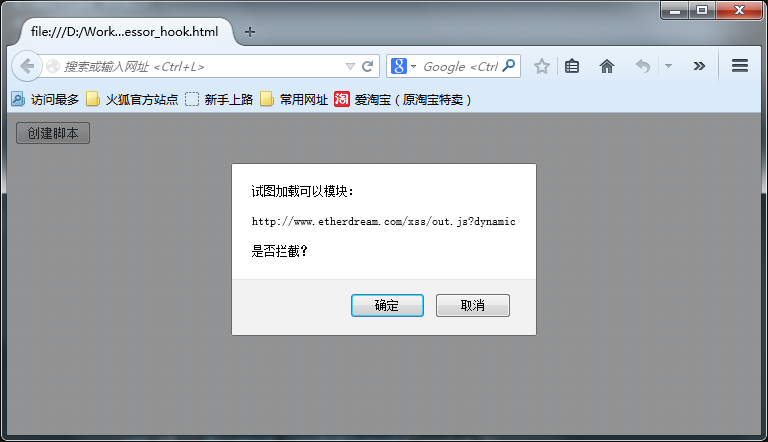
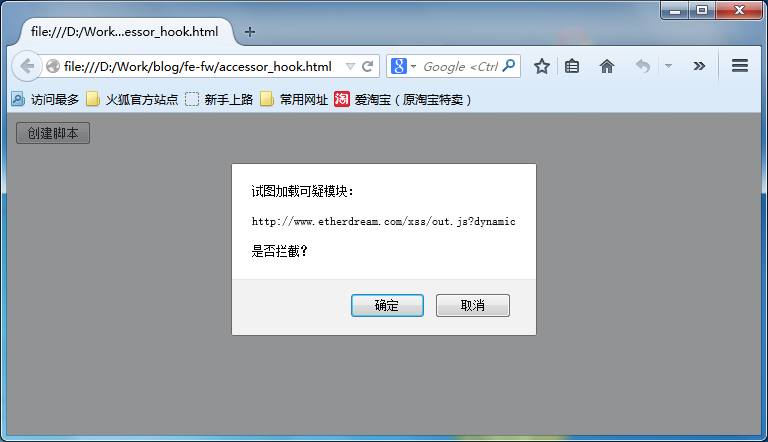
写错字了

diff --git a/_posts/2014-06-10-xss-frontend-firewall-2.md b/_posts/2014-06-10-xss-frontend-firewall-2.md
@@ -239,7 +239,7 @@ document.body.appendChild(el);
 
 	HTMLScriptElement.prototype.__defineSetter__('src', function(url) {
 		if (/xss/.test(url)) {
-			if (confirm('试图加载可以模块：\n\n' + url + '\n\n是否拦截？')) {
+			if (confirm('试图加载可疑模块：\n\n' + url + '\n\n是否拦截？')) {
 				return;
 			}				
 		}
